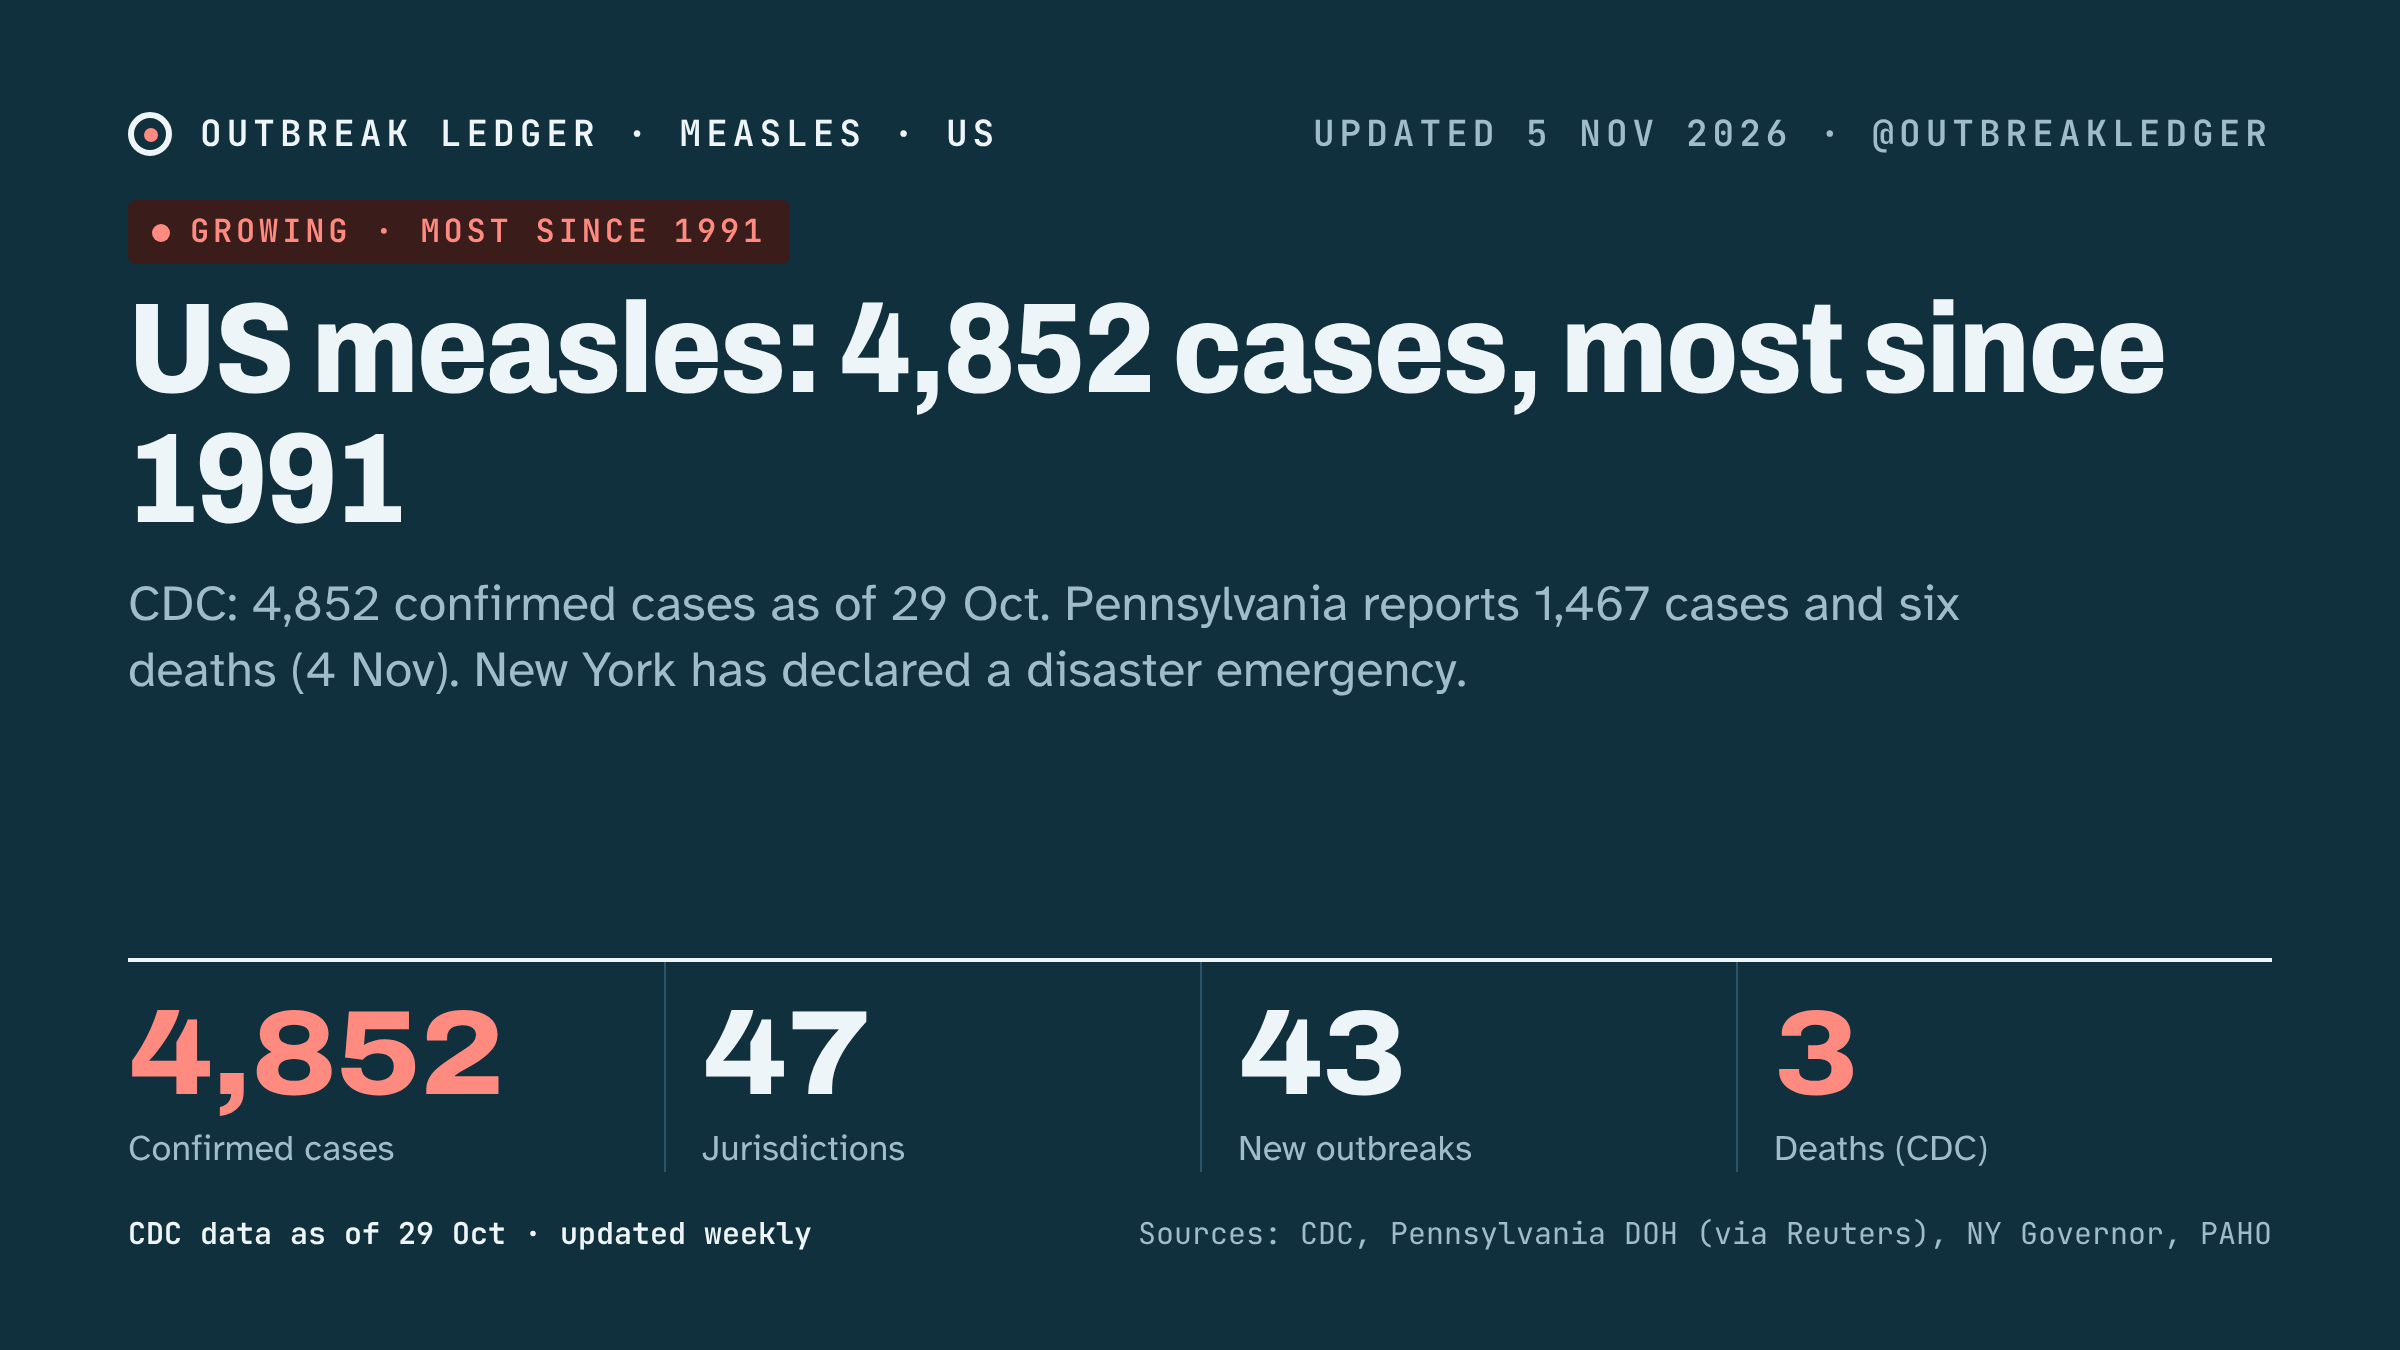
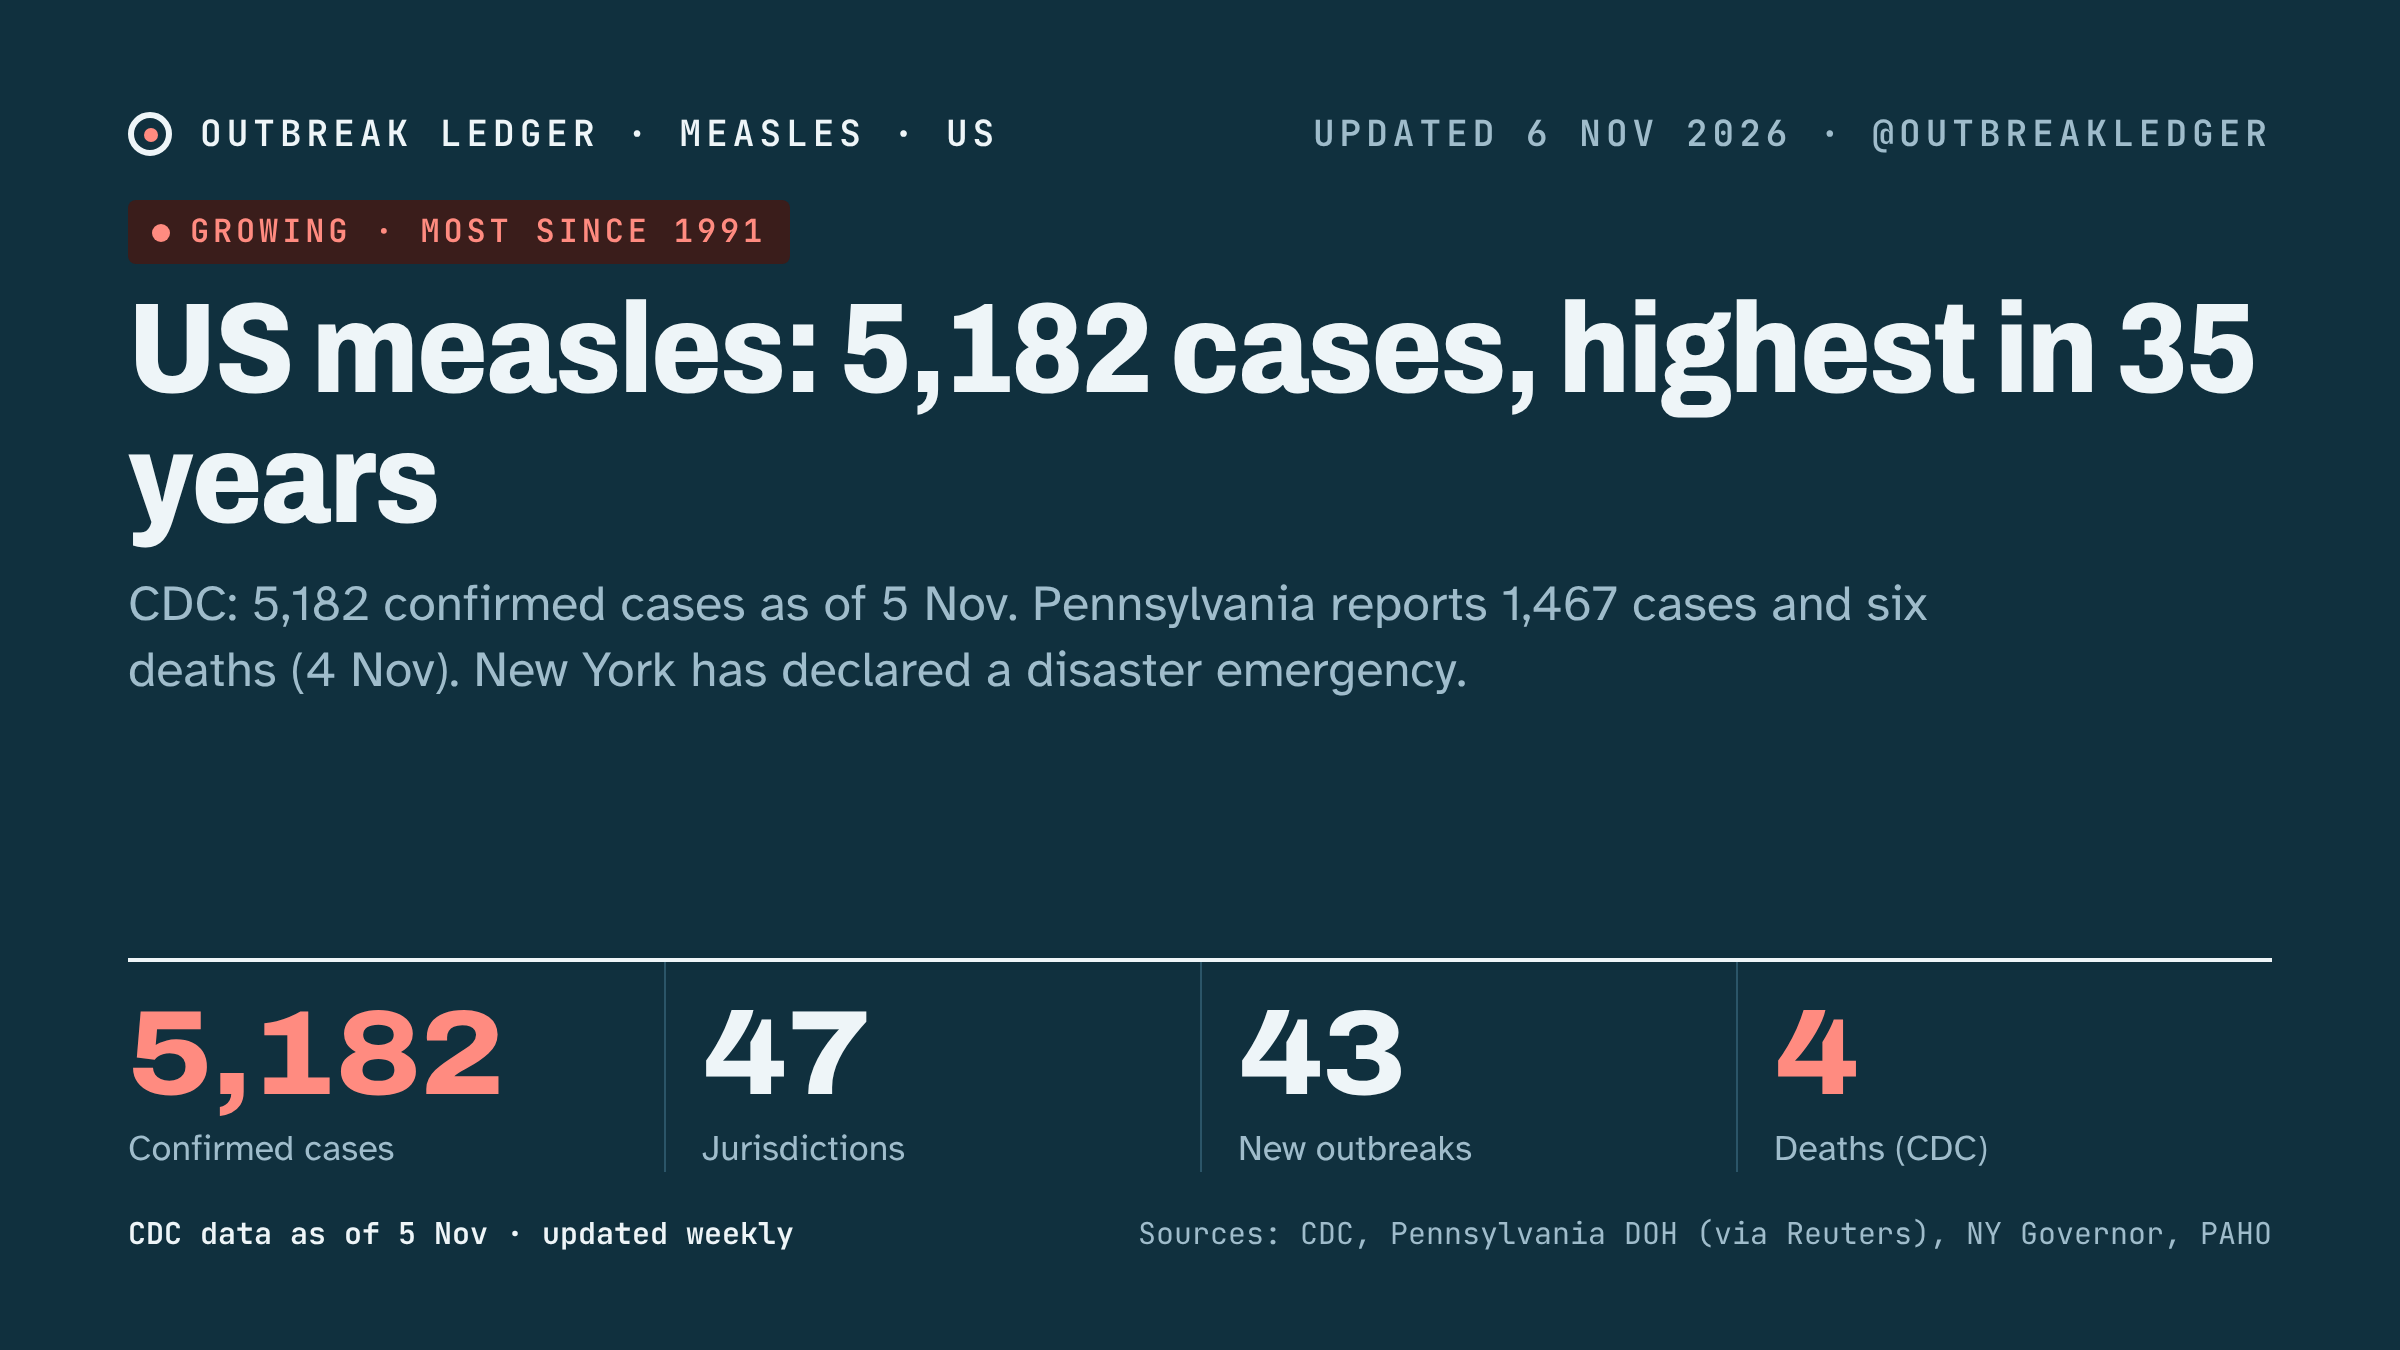
Trackers: measles CDC 5,182 cases (5 Nov); others checked, no change
Claude-Session: https://claude.ai/code/session_01DjK934MGj4uKY77RiACNyU

diff --git a/site/measles/share/latest-post.md b/site/measles/share/latest-post.md
@@ -1,3 +1,3 @@
-US measles: CDC counts 4,852 confirmed cases as of 29 Oct. Pennsylvania's health department reports 1,467 cases in 45 counties and a sixth confirmed death (4 Nov); CDC's national death count was 3. https://nhlebe1.github.io/ai-scheduler-platform/measles/
+US measles cases reach 5,182 as of 5 Nov, the highest annual total in 35 years, CDC says: 562 hospitalisations and 4 deaths by CDC's count. Pennsylvania reports 1,467 cases and six deaths (4 Nov). https://nhlebe1.github.io/ai-scheduler-platform/measles/
 
-Sources: CDC (29 Oct, via Reuters, Contagion Live); Pennsylvania Dept. of Health (pa.gov, 4 Nov); U.S. News
+Sources: Reuters via U.S. News (https://www.usnews.com/news/us/articles/2026-11-06/us-measles-cases-rise-to-5-182-cdc-says), Bloomberg, Pennsylvania Dept. of Health (4 Nov).
